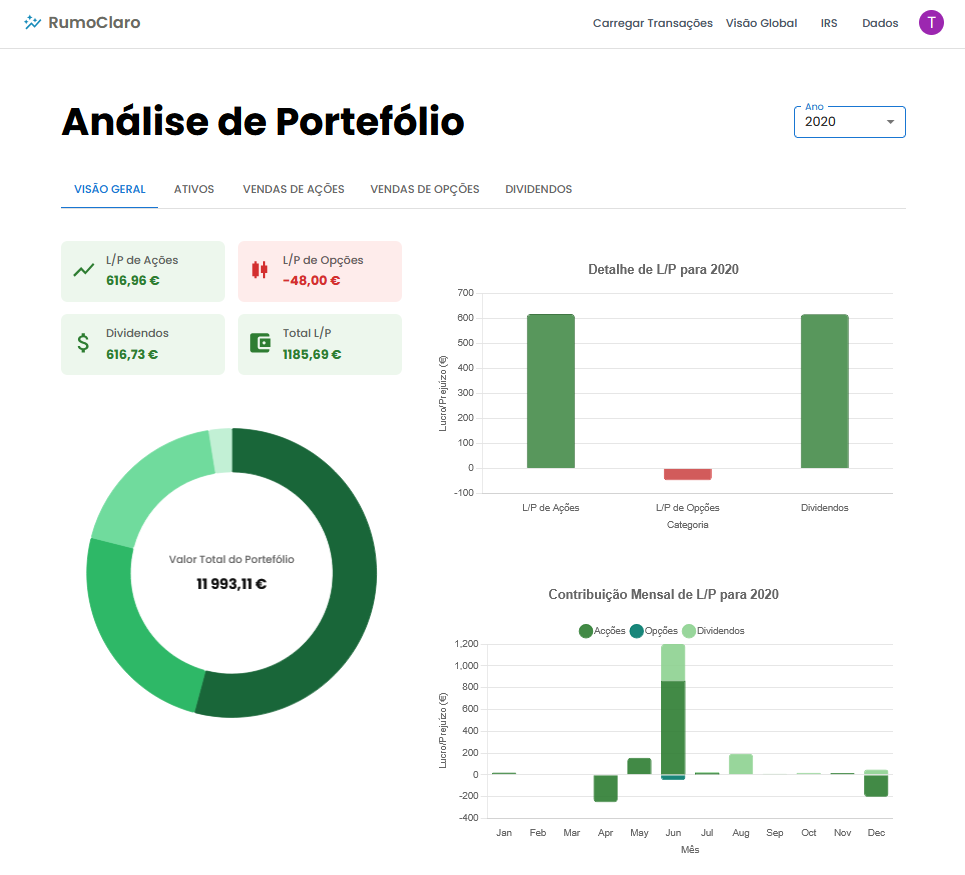
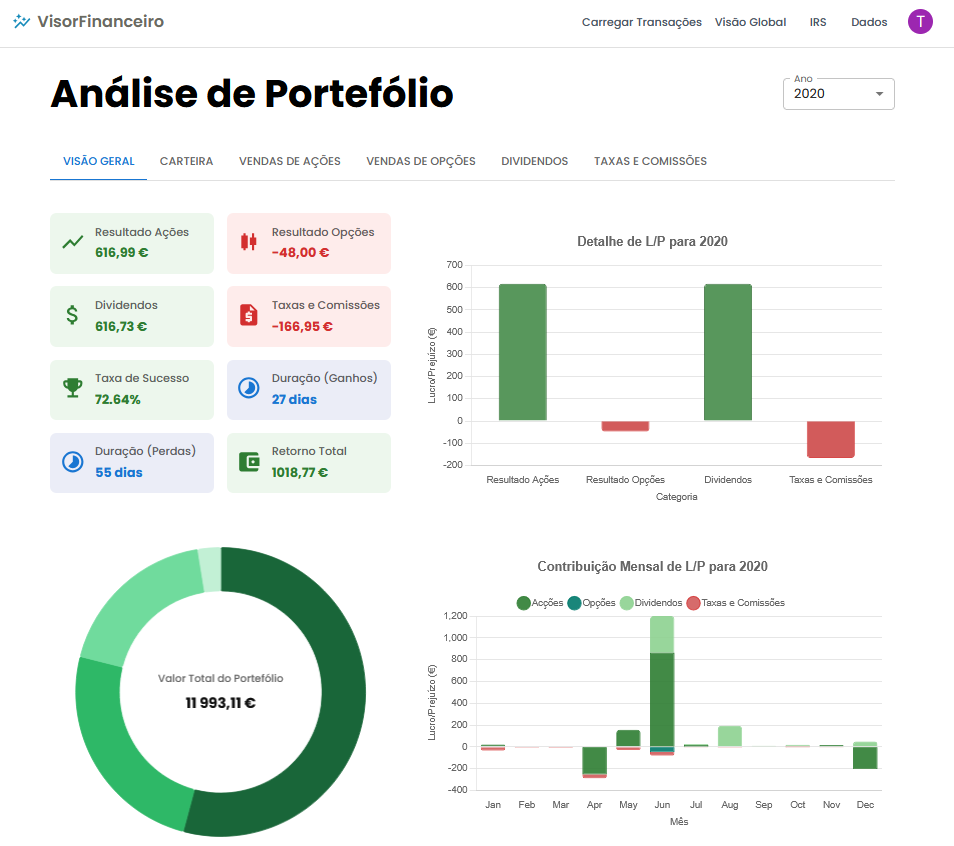
pequenas correções

diff --git a/frontend/src/pages/TaxPage.js b/frontend/src/pages/TaxPage.js
@@ -106,23 +106,17 @@ export default function TaxPage() {
     const numYear = Number(year);
     const filteredStockSales = (taxApiData.stockSales || []).filter(item => getYear(item.SaleDate) === numYear);
     
-    // --- START: Grouping Logic ---
     const groupedSalesMap = filteredStockSales.reduce((acc, sale) => {
-      // Create a unique key based on the grouping criteria
       const groupingKey = `${sale.country_code}|${sale.SaleDate}|${sale.BuyDate}`;
 
       if (!acc[groupingKey]) {
-        // If this is the first time we see this key, create a new entry.
-        // We create a copy of the sale object to avoid modifying the original data.
         acc[groupingKey] = {
           ...sale,
-          // Ensure numeric fields are initialized correctly for summation
           SaleAmountEUR: sale.SaleAmountEUR || 0,
-          BuyAmountEUR: Math.abs(sale.BuyAmountEUR || 0), // Use absolute value as in the original render
+          BuyAmountEUR: Math.abs(sale.BuyAmountEUR || 0),
           Commission: sale.Commission || 0,
         };
       } else {
-        // If the key already exists, sum the values.
         acc[groupingKey].SaleAmountEUR += sale.SaleAmountEUR || 0;
         acc[groupingKey].BuyAmountEUR += Math.abs(sale.BuyAmountEUR || 0);
         acc[groupingKey].Commission += sale.Commission || 0;
@@ -131,9 +125,7 @@ export default function TaxPage() {
       return acc;
     }, {});
 
-    // Convert the map of grouped sales back into an array
     const groupedStockSales = Object.values(groupedSalesMap);
-    // --- END: Grouping Logic ---
 
     const filteredOptionSales = (taxApiData.optionSales || []).filter(item => getYear(item.close_date) === numYear);
     
@@ -209,12 +201,22 @@ export default function TaxPage() {
   if (loading) {
     return <CircularProgress sx={{ display: 'block', margin: '20px auto' }} />;
   }
-  if (apiError && availableYears.length === 0 && selectedYear === NO_YEAR_SELECTED) {
+  if (apiError && availableYears.length === 0) {
     return <Alert severity="error" sx={{ m: 2 }}>{apiError}</Alert>;
+  }
+  
+  // No data state
+  if (availableYears.length === 0 && !loading) {
+    return (
+        <Box sx={{ p: 4, textAlign: 'center' }}>
+            <Typography variant="h4" gutterBottom>Preencher Declaração IRS</Typography>
+            <Typography variant="body1">Sem dados disponíveis. Por favor, carregue primeiro um ficheiro de transações.</Typography>
+        </Box>
+    );
   }
 
   return (
-    <Box sx={{ p: { xs: 1, sm: 2 } }}>
+    <Box sx={{ p: { xs: 2, sm: 3 } }}>
       <Box sx={{ 
         display: 'flex', 
         justifyContent: 'space-between', 
@@ -238,14 +240,8 @@ export default function TaxPage() {
             value={selectedYear}
             label="Year"
             onChange={handleYearChange}
-            disabled={loading || (availableYears.length === 0 && selectedYear === NO_YEAR_SELECTED)}
           >
-            <MenuItem
-              value={NO_YEAR_SELECTED}
-              disabled={availableYears.length > 0}
-            >
-              {availableYears.length === 0 ? "No Data" : "Select Year"}
-            </MenuItem>
+            <MenuItem value={NO_YEAR_SELECTED} disabled>Selecione o Ano</MenuItem>
             {availableYears.map(year => (
               <MenuItem key={year} value={String(year)}>{year}</MenuItem>
             ))}
@@ -253,18 +249,9 @@ export default function TaxPage() {
         </FormControl>
       </Box>
       
-      {apiError && (selectedYear !== NO_YEAR_SELECTED || (availableYears.length === 0 && loading)) && (
-          <Alert severity="warning" sx={{ mb: 2 }}>{apiError}</Alert>
-      )}
-      
-      {selectedYear === NO_YEAR_SELECTED && !loading && availableYears.length > 0 && (
+      {selectedYear === NO_YEAR_SELECTED ? (
         <Typography sx={{textAlign: 'center', my:2}}>Por favor, selecione um ano para visualizar os dados.</Typography>
-      )}
-       {selectedYear === NO_YEAR_SELECTED && !loading && availableYears.length === 0 && !apiError && (
-        <Typography sx={{textAlign: 'center', my:2}}>Não existem dados disponíveis. Por favor, carregue as transações.</Typography>
-       )}
-
-      {selectedYear && selectedYear !== NO_YEAR_SELECTED && !loading && (
+      ) : (
         <>
           <Typography variant="h5" component="h2" gutterBottom sx={{ mt: 2, color: '#0183cb', borderBottom: '1px solid #0183cb', pb: 1, fontSize: '1.1rem' }}>
             Anexo J - Quadro 8: Rendimentos de Capitais (Categoria E) - Obtidos no Estrangeiro
@@ -308,7 +295,7 @@ export default function TaxPage() {
                         <StyledTableBodyCell>{row.retencaoFonte.toFixed(2)}</StyledTableBodyCell>
                       </TableRow>
                     ))
-                  ) : ( <TableRow><StyledTableBodyCell colSpan={9}>{loading ? "Loading..." : UI_TEXT.noDataAvailable}</StyledTableBodyCell></TableRow> )}
+                  ) : ( <TableRow><StyledTableBodyCell colSpan={9}>{UI_TEXT.noDataAvailable}</StyledTableBodyCell></TableRow> )}
                 </TableBody>
               </Table>
             </TableContainer>
@@ -392,7 +379,7 @@ export default function TaxPage() {
                             <StyledTableBodyCell>{/* País Contraparte */}</StyledTableBodyCell>
                         </TableRow>
                       ))
-                    ) : ( <TableRow><StyledTableBodyCell colSpan={14}>{loading ? "Loading..." : UI_TEXT.noDataAvailable}</StyledTableBodyCell></TableRow> )}
+                    ) : ( <TableRow><StyledTableBodyCell colSpan={14}>{UI_TEXT.noDataAvailable}</StyledTableBodyCell></TableRow> )}
                    </TableBody>
                  </Table>
               </TableContainer>
@@ -447,7 +434,7 @@ export default function TaxPage() {
                            <StyledTableBodyCell align="left">{/* País Contraparte */}</StyledTableBodyCell>
                         </TableRow>
                       ))
-                    ) : ( <TableRow><StyledTableBodyCell colSpan={6}>{loading ? "Loading..." : UI_TEXT.noDataAvailable}</StyledTableBodyCell></TableRow> )}
+                    ) : ( <TableRow><StyledTableBodyCell colSpan={6}>{UI_TEXT.noDataAvailable}</StyledTableBodyCell></TableRow> )}
                     </TableBody>
                   </Table>
               </TableContainer>

diff --git a/frontend/src/pages/ProcessedTransactionsPage.js b/frontend/src/pages/ProcessedTransactionsPage.js
@@ -9,10 +9,8 @@ import { useAuth } from '../context/AuthContext';
 import { UI_TEXT } from '../constants';
 import { parseDateRobust } from '../utils/dateUtils';
 import DeleteTransactionsModal from '../components/DeleteTransactionsModal';
-// START OF NEW CODE
 import AddTransactionModal from '../components/AddTransactionModal';
 import AddCircleOutlineIcon from '@mui/icons-material/AddCircleOutline';
-// END OF NEW CODE
 
 const fetchProcessedTransactions = async () => {
   const response = await apiFetchProcessedTransactions();
@@ -91,9 +89,7 @@ const ProcessedTransactionsPage = () => {
   });
 
   const [isDeleteModalOpen, setIsDeleteModalOpen] = useState(false);
-  // START OF NEW CODE
   const [isAddModalOpen, setIsAddModalOpen] = useState(false);
-  // END OF NEW CODE
 
   const deleteTransactionsMutation = useMutation({
     mutationFn: (criteria) => apiDeleteTransactions(criteria),
@@ -139,57 +135,54 @@ const ProcessedTransactionsPage = () => {
   
   return (
     <Box sx={{ p: { xs: 2, sm: 3 } }}>
-      <Typography variant="h4" component="h1" gutterBottom>
-        Transações Processadas
-      </Typography>
-      
-      {processedTransactions.length > 0 && !transactionsLoading && (
-        // START OF MODIFIED CODE
-        <Box sx={{ mb: 2, display: 'flex', justifyContent: 'flex-end', gap: 2 }}>
-          <Button
-            variant="contained"
-            color="primary"
-            startIcon={<AddCircleOutlineIcon />}
-            onClick={() => setIsAddModalOpen(true)}
-          >
-            Adicionar Transação
-          </Button>
-          <Button
-            variant="contained"
-            color="error"
-            onClick={handleDeleteClick}
-            disabled={deleteTransactionsMutation.isPending || transactionsLoading}
-          >
-            {deleteTransactionsMutation.isPending ? <CircularProgress size={24} color="inherit" /> : "Eliminar Transações"}
-          </Button>
-        </Box>
-        // END OF MODIFIED CODE
-      )}
-
       {processedTransactions.length > 0 ? (
-        <Paper sx={{ width: '100%' }}>
-          <DataGrid
-            rows={processedTransactions}
-            columns={columns}
-            autoHeight
-            initialState={{
-              pagination: {
-                paginationModel: { pageSize: 10, page: 0 },
-              },
-              sorting: {
-                sortModel: [{ field: 'date', sort: 'desc' }],
-              },
-            }}
-            pageSizeOptions={[10, 25, 50, 100]}
-            disableRowSelectionOnClick
-            density="compact"
-            localeText={ptPT.components.MuiDataGrid.defaultProps.localeText}
-          />
-        </Paper>
+        <>
+          <Typography variant="h4" component="h1" gutterBottom>
+            Transações Processadas
+          </Typography>
+          <Box sx={{ mb: 2, display: 'flex', justifyContent: 'flex-end', gap: 2 }}>
+            <Button
+              variant="contained"
+              color="primary"
+              startIcon={<AddCircleOutlineIcon />}
+              onClick={() => setIsAddModalOpen(true)}
+            >
+              Adicionar Transação
+            </Button>
+            <Button
+              variant="contained"
+              color="error"
+              onClick={handleDeleteClick}
+              disabled={deleteTransactionsMutation.isPending || transactionsLoading}
+            >
+              {deleteTransactionsMutation.isPending ? <CircularProgress size={24} color="inherit" /> : "Eliminar Transações"}
+            </Button>
+          </Box>
+          <Paper sx={{ width: '100%' }}>
+            <DataGrid
+              rows={processedTransactions}
+              columns={columns}
+              autoHeight
+              initialState={{
+                pagination: {
+                  paginationModel: { pageSize: 10, page: 0 },
+                },
+                sorting: {
+                  sortModel: [{ field: 'date', sort: 'desc' }],
+                },
+              }}
+              pageSizeOptions={[10, 25, 50, 100]}
+              disableRowSelectionOnClick
+              density="compact"
+              localeText={ptPT.components.MuiDataGrid.defaultProps.localeText}
+            />
+          </Paper>
+        </>
       ) : (
-        <Typography sx={{ textAlign: 'center', mt: 4, fontStyle: 'italic', color: 'text.secondary' }}>
-          {transactionsLoading ? "A carregar..." : "Nenhuma transação processada encontrada."}
-        </Typography>
+        <Box sx={{ p: 4, textAlign: 'center' }}>
+            <Typography variant="h4" gutterBottom>Transações Processadas</Typography>
+            <Typography variant="body1">Sem dados disponíveis. Por favor, carregue primeiro um ficheiro de transações.</Typography>
+        </Box>
       )}
 
       <DeleteTransactionsModal
@@ -201,12 +194,10 @@ const ProcessedTransactionsPage = () => {
         deleteError={deleteError}
       />
       
-      {/* START OF NEW CODE */}
       <AddTransactionModal
         open={isAddModalOpen}
         onClose={() => setIsAddModalOpen(false)}
       />
-      {/* END OF NEW CODE */}
     </Box>
   );
 };

diff --git a/frontend/src/pages/RealizedGainsPage.js b/frontend/src/pages/RealizedGainsPage.js
@@ -151,7 +151,7 @@ export default function RealizedGainsPage() {
   return (
     <Box sx={{ p: { xs: 2, sm: 4, md: 6 }, maxWidth: 1200, mx: 'auto' }}>
       <Box sx={{ display: 'flex', flexDirection: { xs: 'column', sm: 'row' }, justifyContent: 'space-between', alignItems: { xs: 'flex-start', sm: 'center' }, mb: 4, gap: 2 }}>
-        <Typography variant="h3" component="h1" sx={{ fontWeight: 'bold' }}>Análise de Portefólio</Typography>
+        <Typography variant="h4" component="h1" sx={{ mb: { xs: 2, sm: 0 } }}>Análise de Portefólio</Typography>
         <FormControl size="small" sx={{ minWidth: 140, width: { xs: '100%', sm: 'auto' } }}>
           <InputLabel id="year-select-label">Ano</InputLabel>
           <Select labelId="year-select-label" value={selectedYear} label="Ano" onChange={handleYearChange} disabled={availableYears.length <= 1}>

diff --git a/frontend/src/components/realizedgainsSections/OverallPLChart.js b/frontend/src/components/realizedgainsSections/OverallPLChart.js
@@ -77,7 +77,7 @@ const OverallPLChart = ({ stockSaleDetails, optionSaleDetails, dividendTaxResult
       const singleYearData = yearlyPL[selectedYear];
       if (!singleYearData) return { chartData: { labels: [], datasets: [] }, yearlyPLDataForTooltip: {} };
       
-      const labels = ['L/P de Ações', 'L/P de Opções', 'Dividendos', 'Taxas e Comissões'];
+      const labels = ['Resultado Ações', 'Resultado Opções', 'Dividendos', 'Taxas e Comissões'];
       const dataset = generateDataset([singleYearData.stocks, singleYearData.options, singleYearData.dividends, singleYearData.fees]);
       dataset.label = `L/P para ${selectedYear}`;
 
